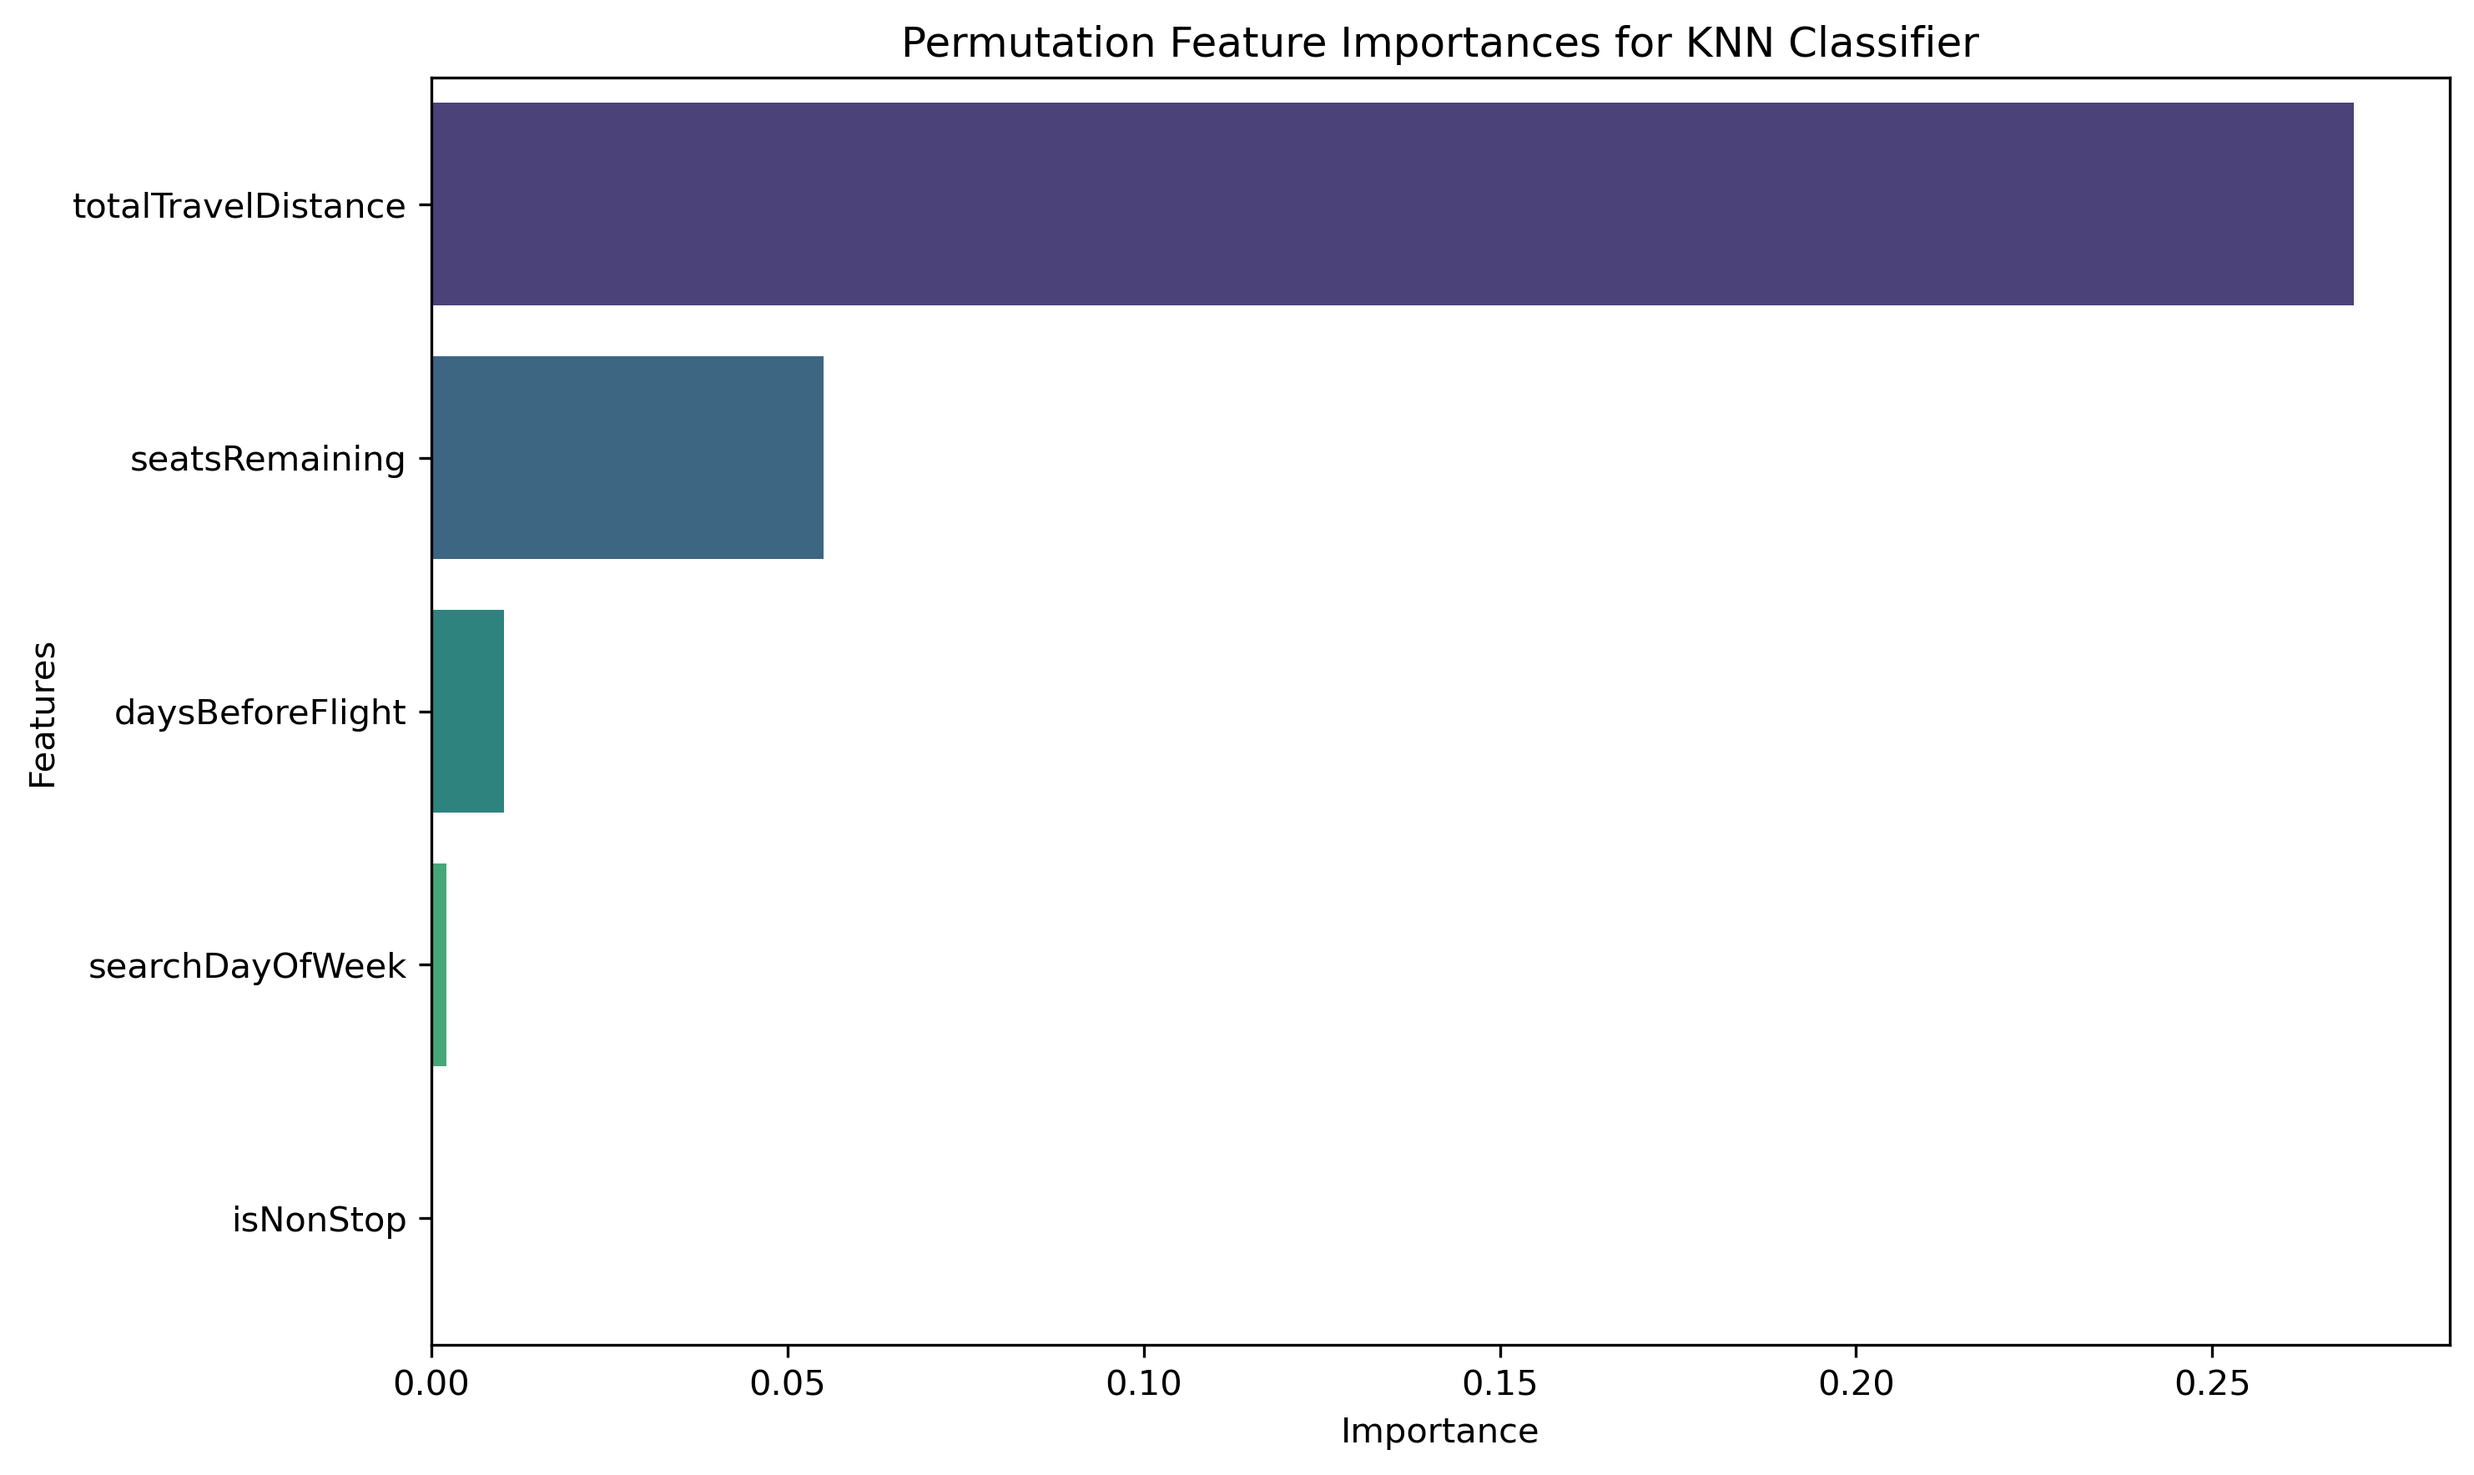
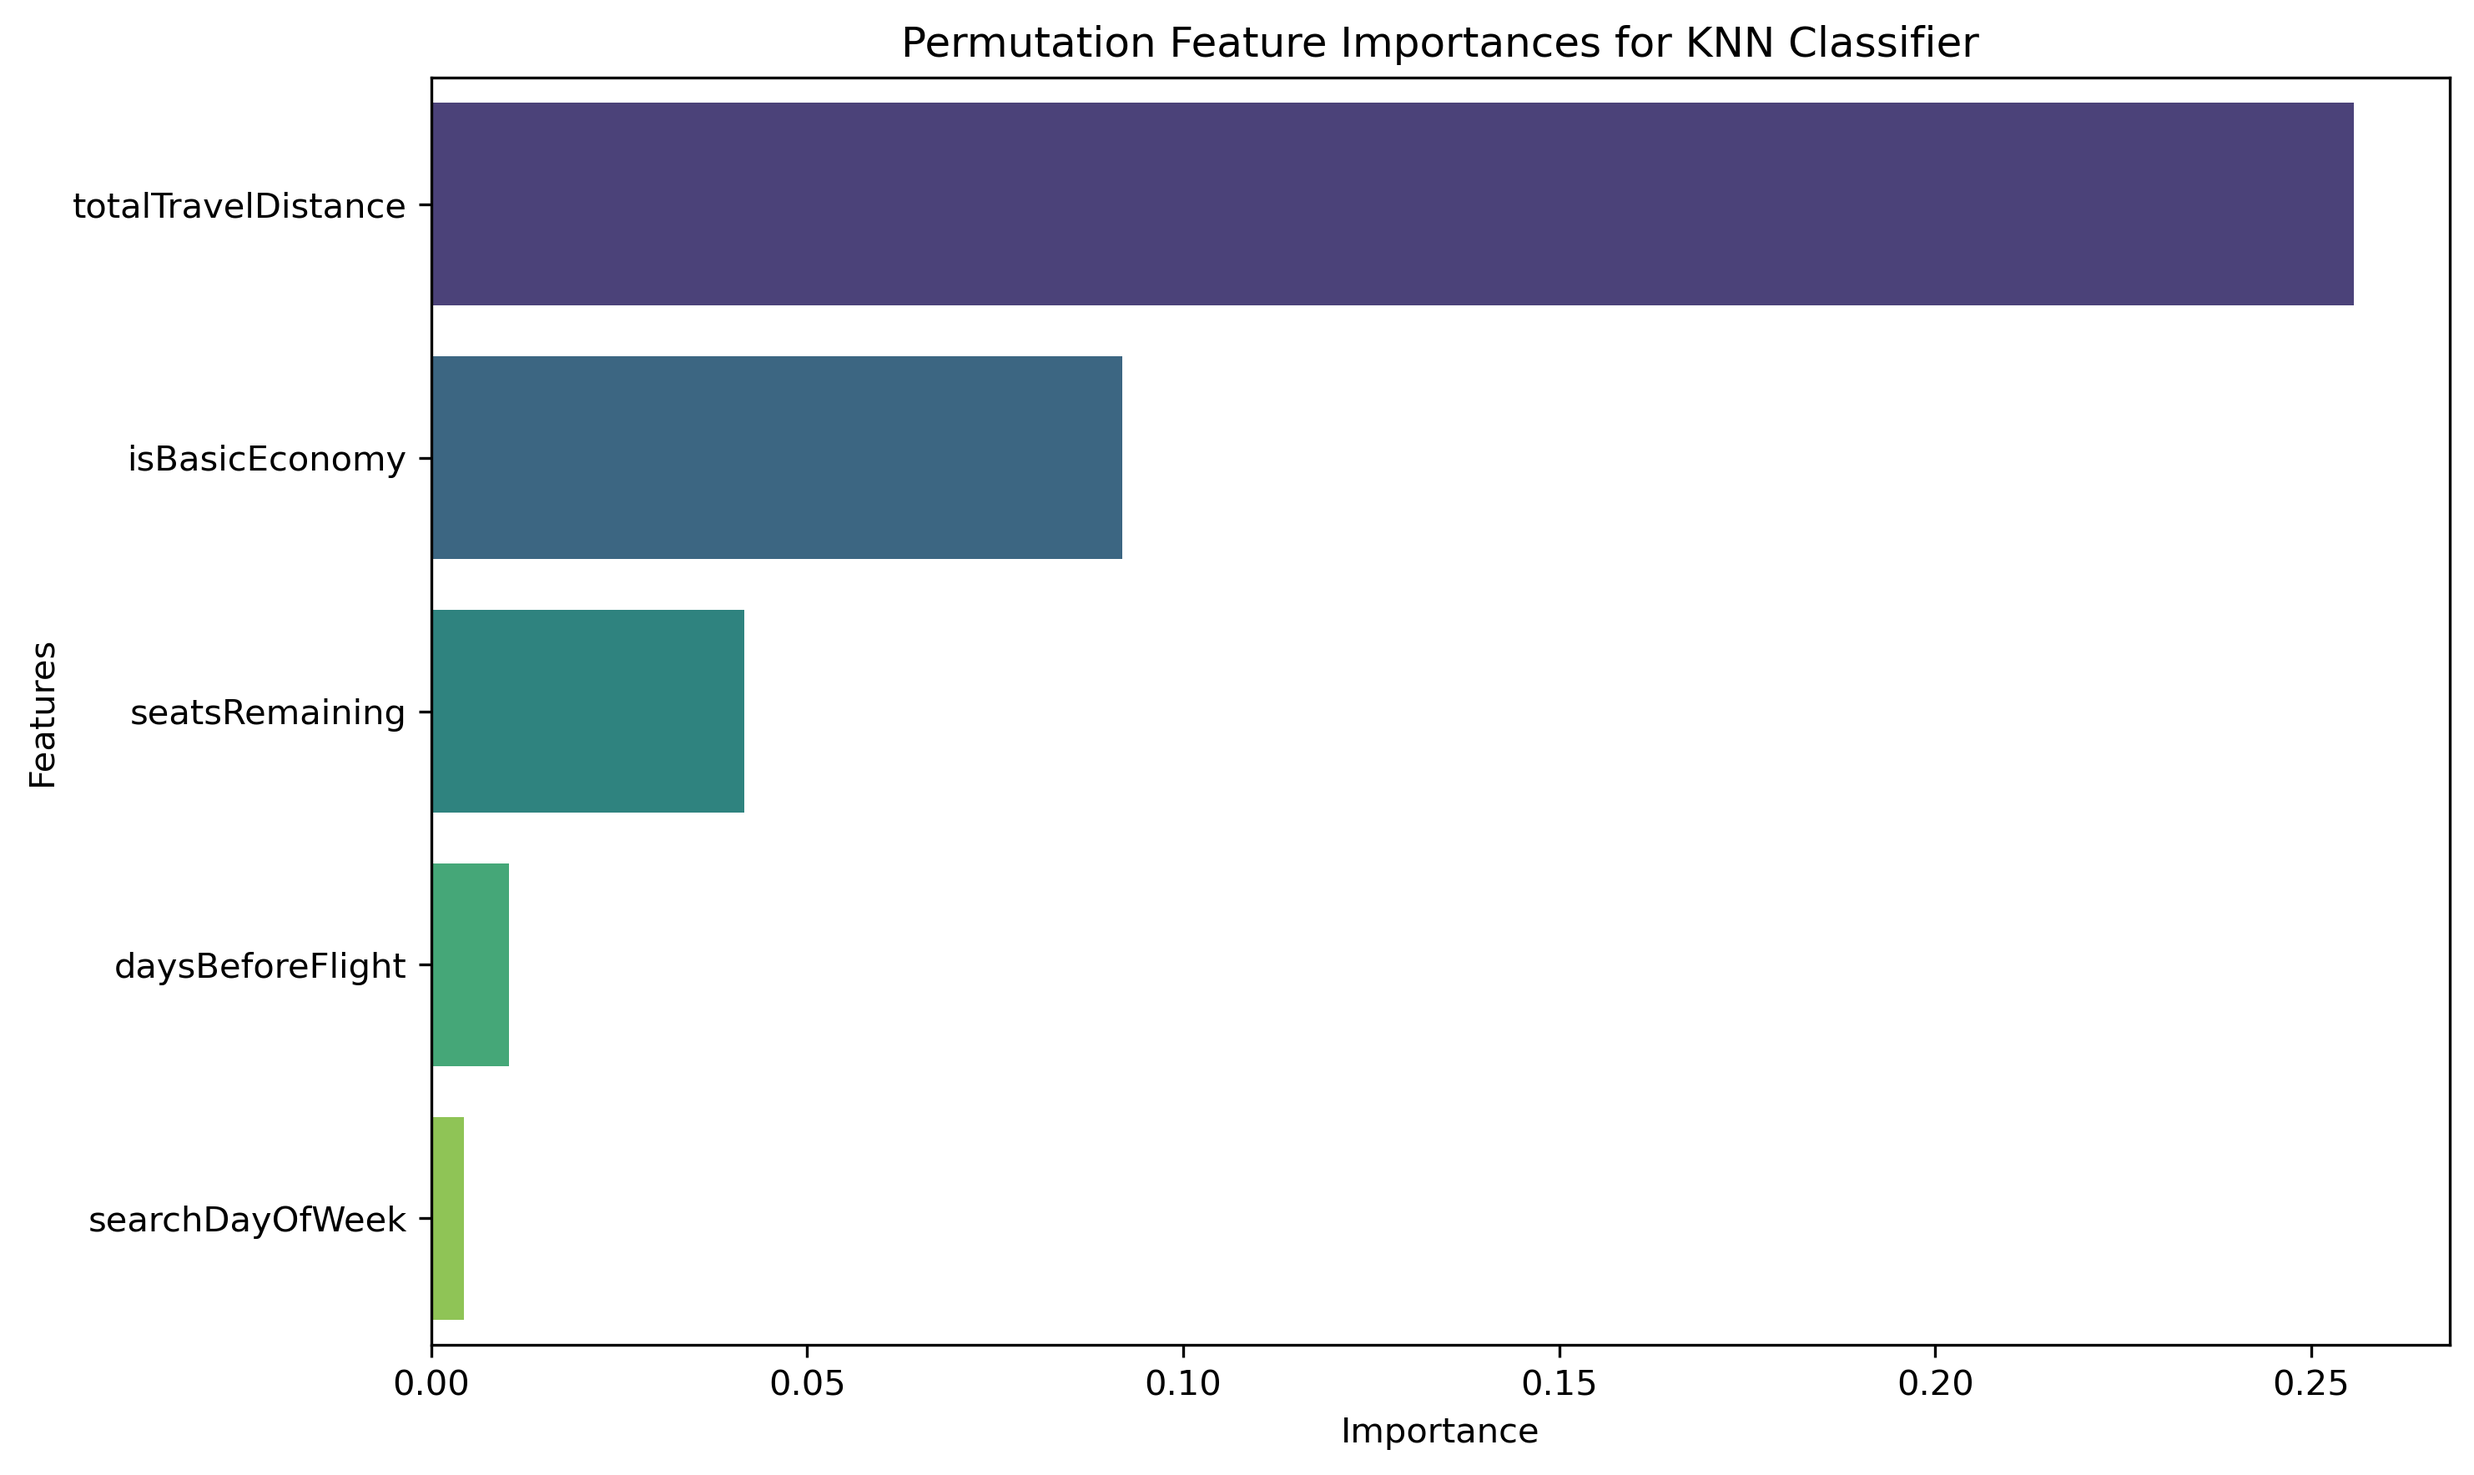
update

diff --git a/knn_prediction.py b/knn_prediction.py
@@ -1,20 +1,24 @@
 import pandas as pd
 from sklearn.model_selection import train_test_split, GridSearchCV
-from sklearn.svm import SVC
 from sklearn.preprocessing import StandardScaler
 from sklearn.metrics import accuracy_score, precision_score, recall_score, f1_score, classification_report, confusion_matrix, roc_auc_score
 import matplotlib.pyplot as plt
+from sklearn.inspection import permutation_importance
 from sklearn.model_selection import GridSearchCV
 from sklearn.neighbors import KNeighborsClassifier
 import seaborn as sns
-from sklearn.inspection import permutation_importance
 
 # Load the dataset
 file_path = 'flights.csv'
 data = pd.read_csv(file_path)
 
-# Preprocessing the data
-data = data[['searchDate', 'isNonStop', 'seatsRemaining', 'totalTravelDistance', 'baseFare']]
+columns_to_drop = ['legId', 'fareBasisCode', 'segmentsDepartureTimeEpochSeconds', 
+                   'segmentsArrivalTimeEpochSeconds', 'segmentsDepartureTimeRaw', 'segmentsArrivalTimeRaw',
+                   'segmentsArrivalAirportCode', 'segmentsDepartureAirportCode', 'segmentsAirlineName', 
+                   'segmentsAirlineCode', 'segmentsEquipmentDescription', 'segmentsDurationInSeconds', 
+                   'segmentsDistance', 'segmentsCabinCode']
+
+data.drop(columns=columns_to_drop, axis=1, inplace=True)
 
 # Handle missing values
 data.dropna(inplace=True)
@@ -26,14 +30,11 @@ data['searchDayOfWeek'] = data['searchDate'].dt.dayofweek
 # Calculate days between search and flight date
 data['daysBeforeFlight'] = (pd.to_datetime('2022-05-31') - data['searchDate']).dt.days
 
-# Convert categorical features
-data['isNonStop'] = data['isNonStop'].astype(int)
-
 # Define target variable by categorizing 'baseFare' into Low, Medium, High
 data['priceCategory'] = pd.qcut(data['baseFare'], q=3, labels=['Low', 'Medium', 'High'])
 
 # Define feature set and target variable
-X = data[['seatsRemaining', 'totalTravelDistance', 'isNonStop', 'searchDayOfWeek', 'daysBeforeFlight']]
+X = data[['seatsRemaining', 'totalTravelDistance', 'searchDayOfWeek', 'daysBeforeFlight', 'isBasicEconomy']]
 y = data['priceCategory']
 
 # Standardize features
@@ -43,9 +44,9 @@ X_scaled = scaler.fit_transform(X)
 # Split data into training (80%) and test (20%) sets
 X_train, X_test, y_train, y_test = train_test_split(X_scaled, y, test_size=0.2, random_state=42, stratify=y)
 
-
 # Define the range for k values
 param_grid = {'n_neighbors': range(1, 21)}
+
 knn_model = KNeighborsClassifier()
 
 # Set up GridSearchCV with 5-fold cross-validation
@@ -56,7 +57,6 @@ grid_search.fit(X_train, y_train)
 print("Best k:", grid_search.best_params_['n_neighbors'])
 print("Best F1 Score:", grid_search.best_score_)
 
-
 # Extending the range of k values
 param_grid = {'n_neighbors': range(21, 51)}
 grid_search = GridSearchCV(KNeighborsClassifier(), param_grid, cv=5, scoring='f1_weighted')
@@ -65,9 +65,8 @@ grid_search.fit(X_train, y_train)
 print("Best k:", grid_search.best_params_['n_neighbors'])
 print("Best F1 Score:", grid_search.best_score_)
 
-
-# Train the KNN model with the optimal k=44
-best_knn_model = KNeighborsClassifier(n_neighbors=44)
+# Train the KNN model with the optimal k=42
+best_knn_model = KNeighborsClassifier(n_neighbors=42)
 best_knn_model.fit(X_train, y_train)
 
 # Make predictions on the test set
@@ -75,6 +74,7 @@ y_pred = best_knn_model.predict(X_test)
 y_pred_proba = best_knn_model.predict_proba(X_test)
 
 # Calculate evaluation metrics
+
 accuracy = accuracy_score(y_test, y_pred)
 precision = precision_score(y_test, y_pred, average='weighted')
 recall = recall_score(y_test, y_pred, average='weighted')
@@ -94,9 +94,9 @@ plt.figure(figsize=(8, 6))
 sns.heatmap(cm, annot=True, fmt='d', cmap='Blues', xticklabels=['Low', 'Medium', 'High'], yticklabels=['Low', 'Medium', 'High'])
 plt.xlabel("Predicted")
 plt.ylabel("Actual")
-plt.title("Confusion Matrix for KNN with k=44")
+plt.title("Confusion Matrix for KNN with k=42")
 
-output_file = "confusion_matrix_knn_k44.png"
+output_file = "confusion_matrix_knn_k42.png"
 plt.savefig(output_file, dpi=300, bbox_inches='tight')
 
 plt.show()
@@ -105,7 +105,6 @@ plt.show()
 result = permutation_importance(best_knn_model, X_test, y_test, n_repeats=10, random_state=42)
 importance = result.importances_mean
 print("Feature importance:", importance)
-
 features = X.columns
 importance_df = pd.DataFrame({
     'Feature': features,
@@ -124,4 +123,3 @@ plt.tight_layout()
 output_file = "knn_permutation_feature_importances.png"
 plt.savefig(output_file, dpi=300, bbox_inches='tight')
 plt.show()
-
